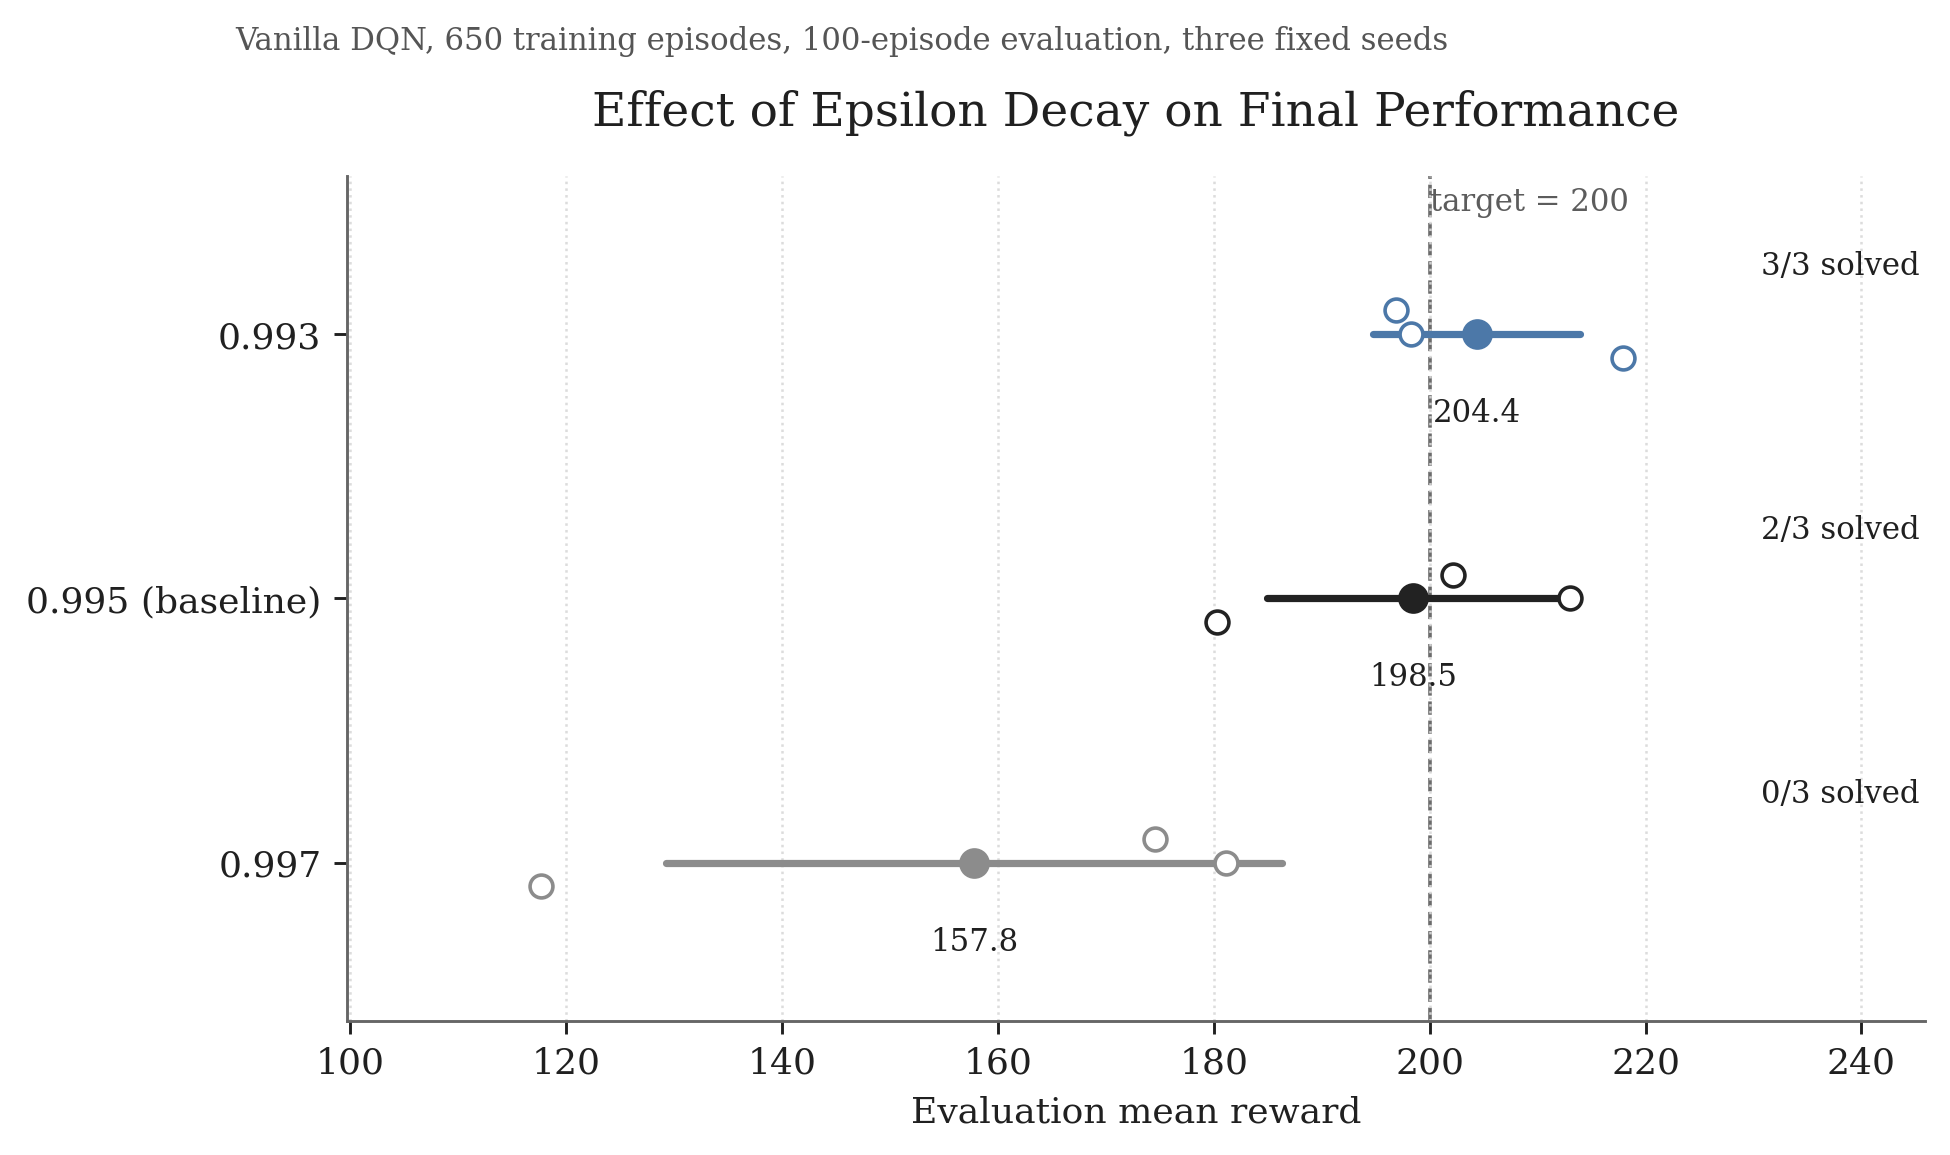
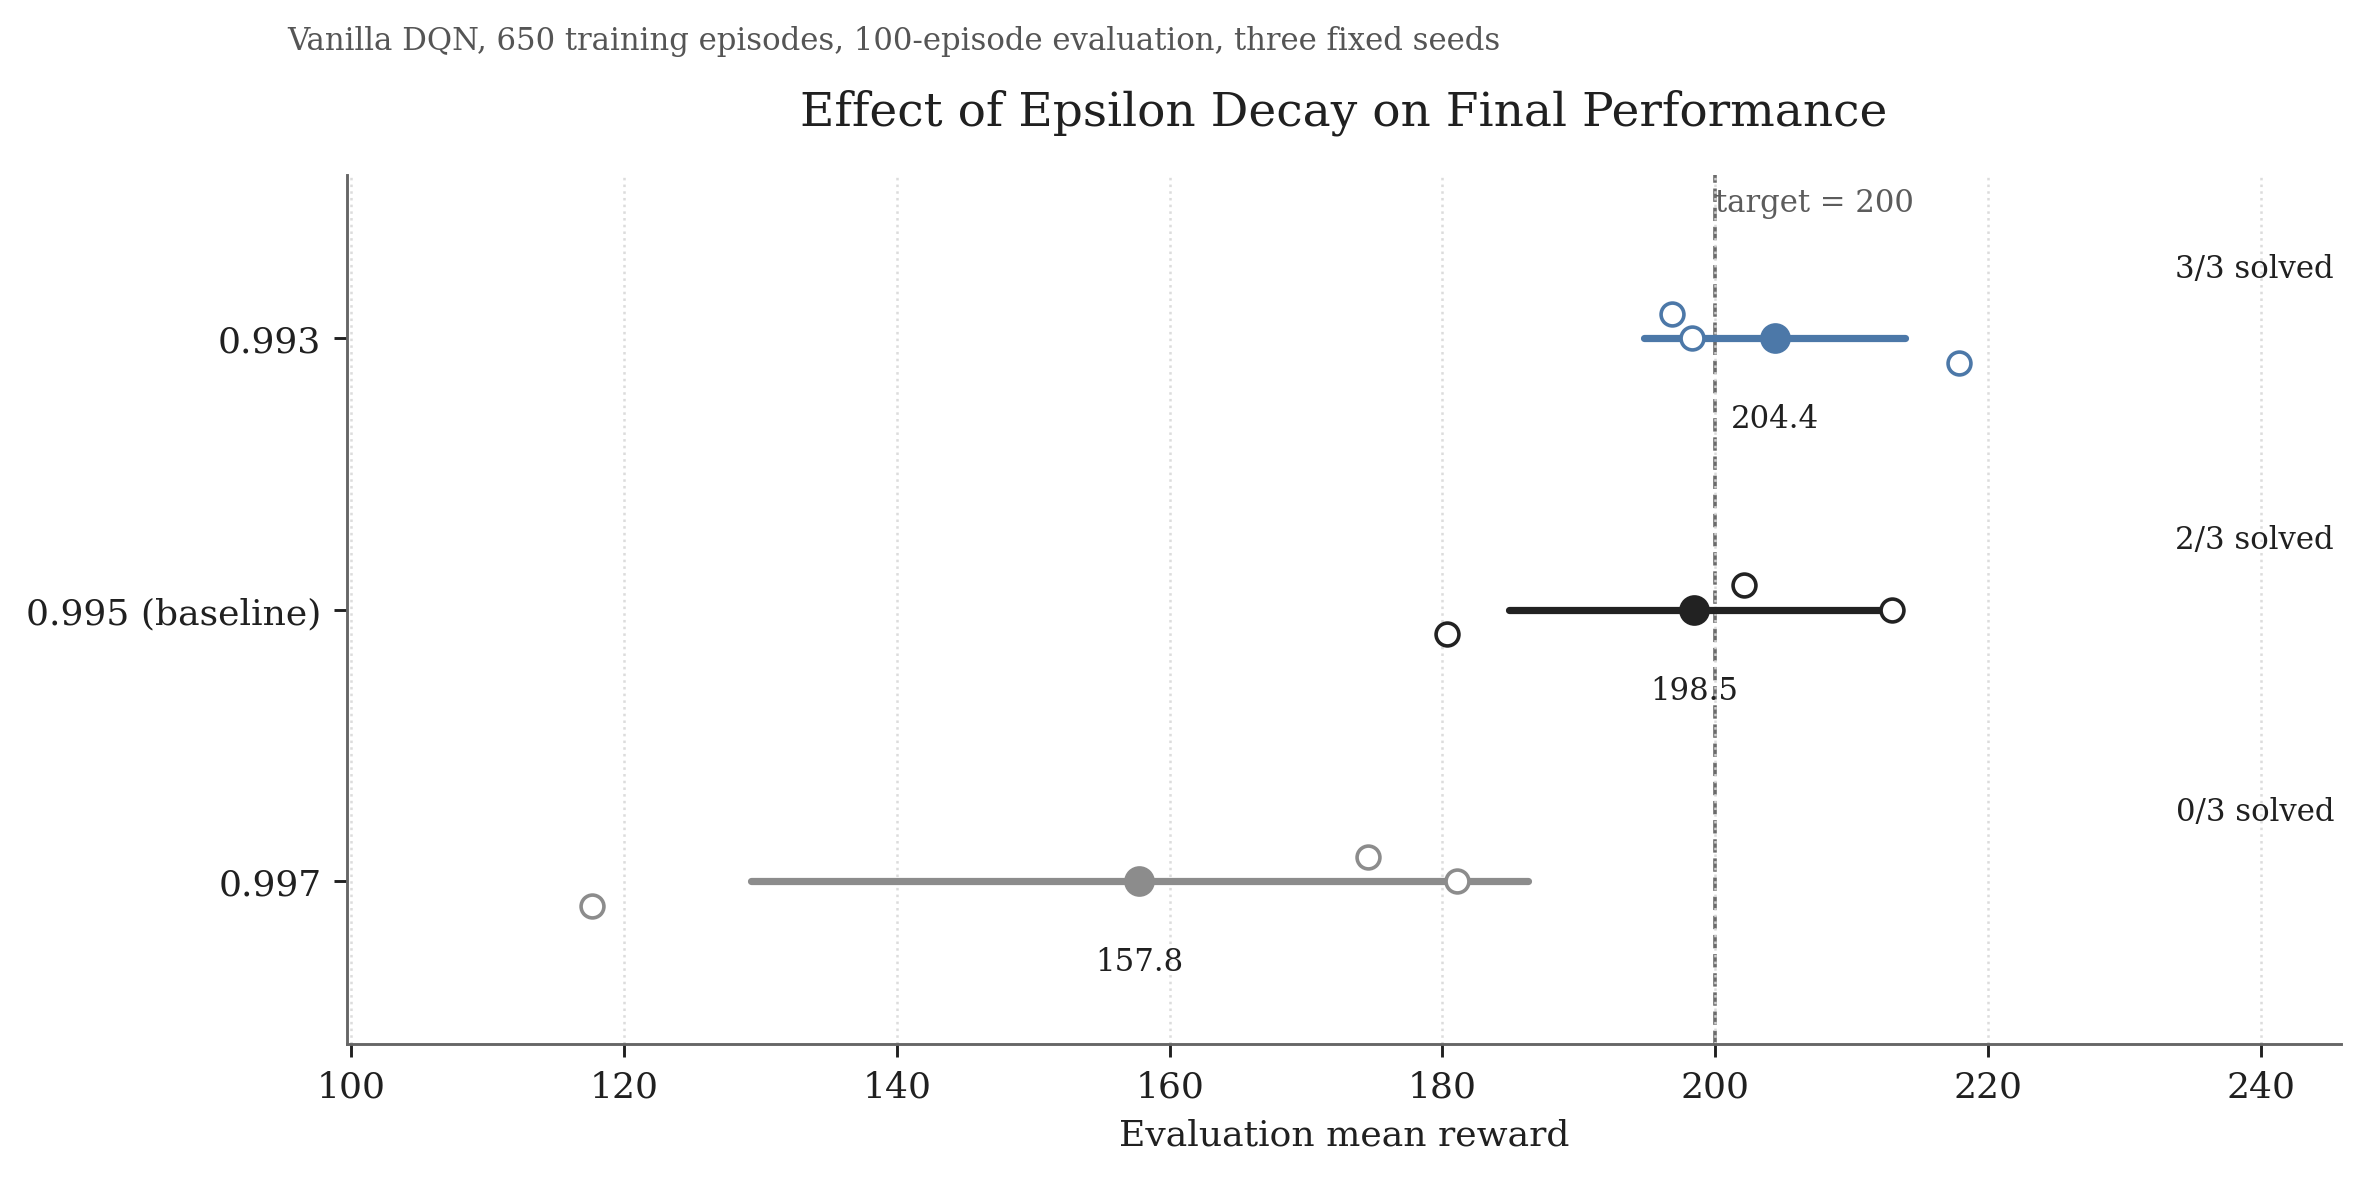
feat(report): refine comparison figure styling

diff --git a/Assignment1-main/make_report_figures.py b/Assignment1-main/make_report_figures.py
@@ -173,7 +173,7 @@ def make_comparison_figure(
     solve_rates = [summary[group]["solve_rate"] for group in group_order]
     y_positions = np.arange(len(group_order) - 1, -1, -1, dtype=float)
 
-    fig, ax = plt.subplots(figsize=(7.6, 4.8))
+    fig, ax = plt.subplots(figsize=(9.2, 4.9))
 
     min_reward = min(float(np.min(summary[group]["rewards"])) for group in group_order)
     max_reward = max(float(np.max(summary[group]["rewards"])) for group in group_order)
